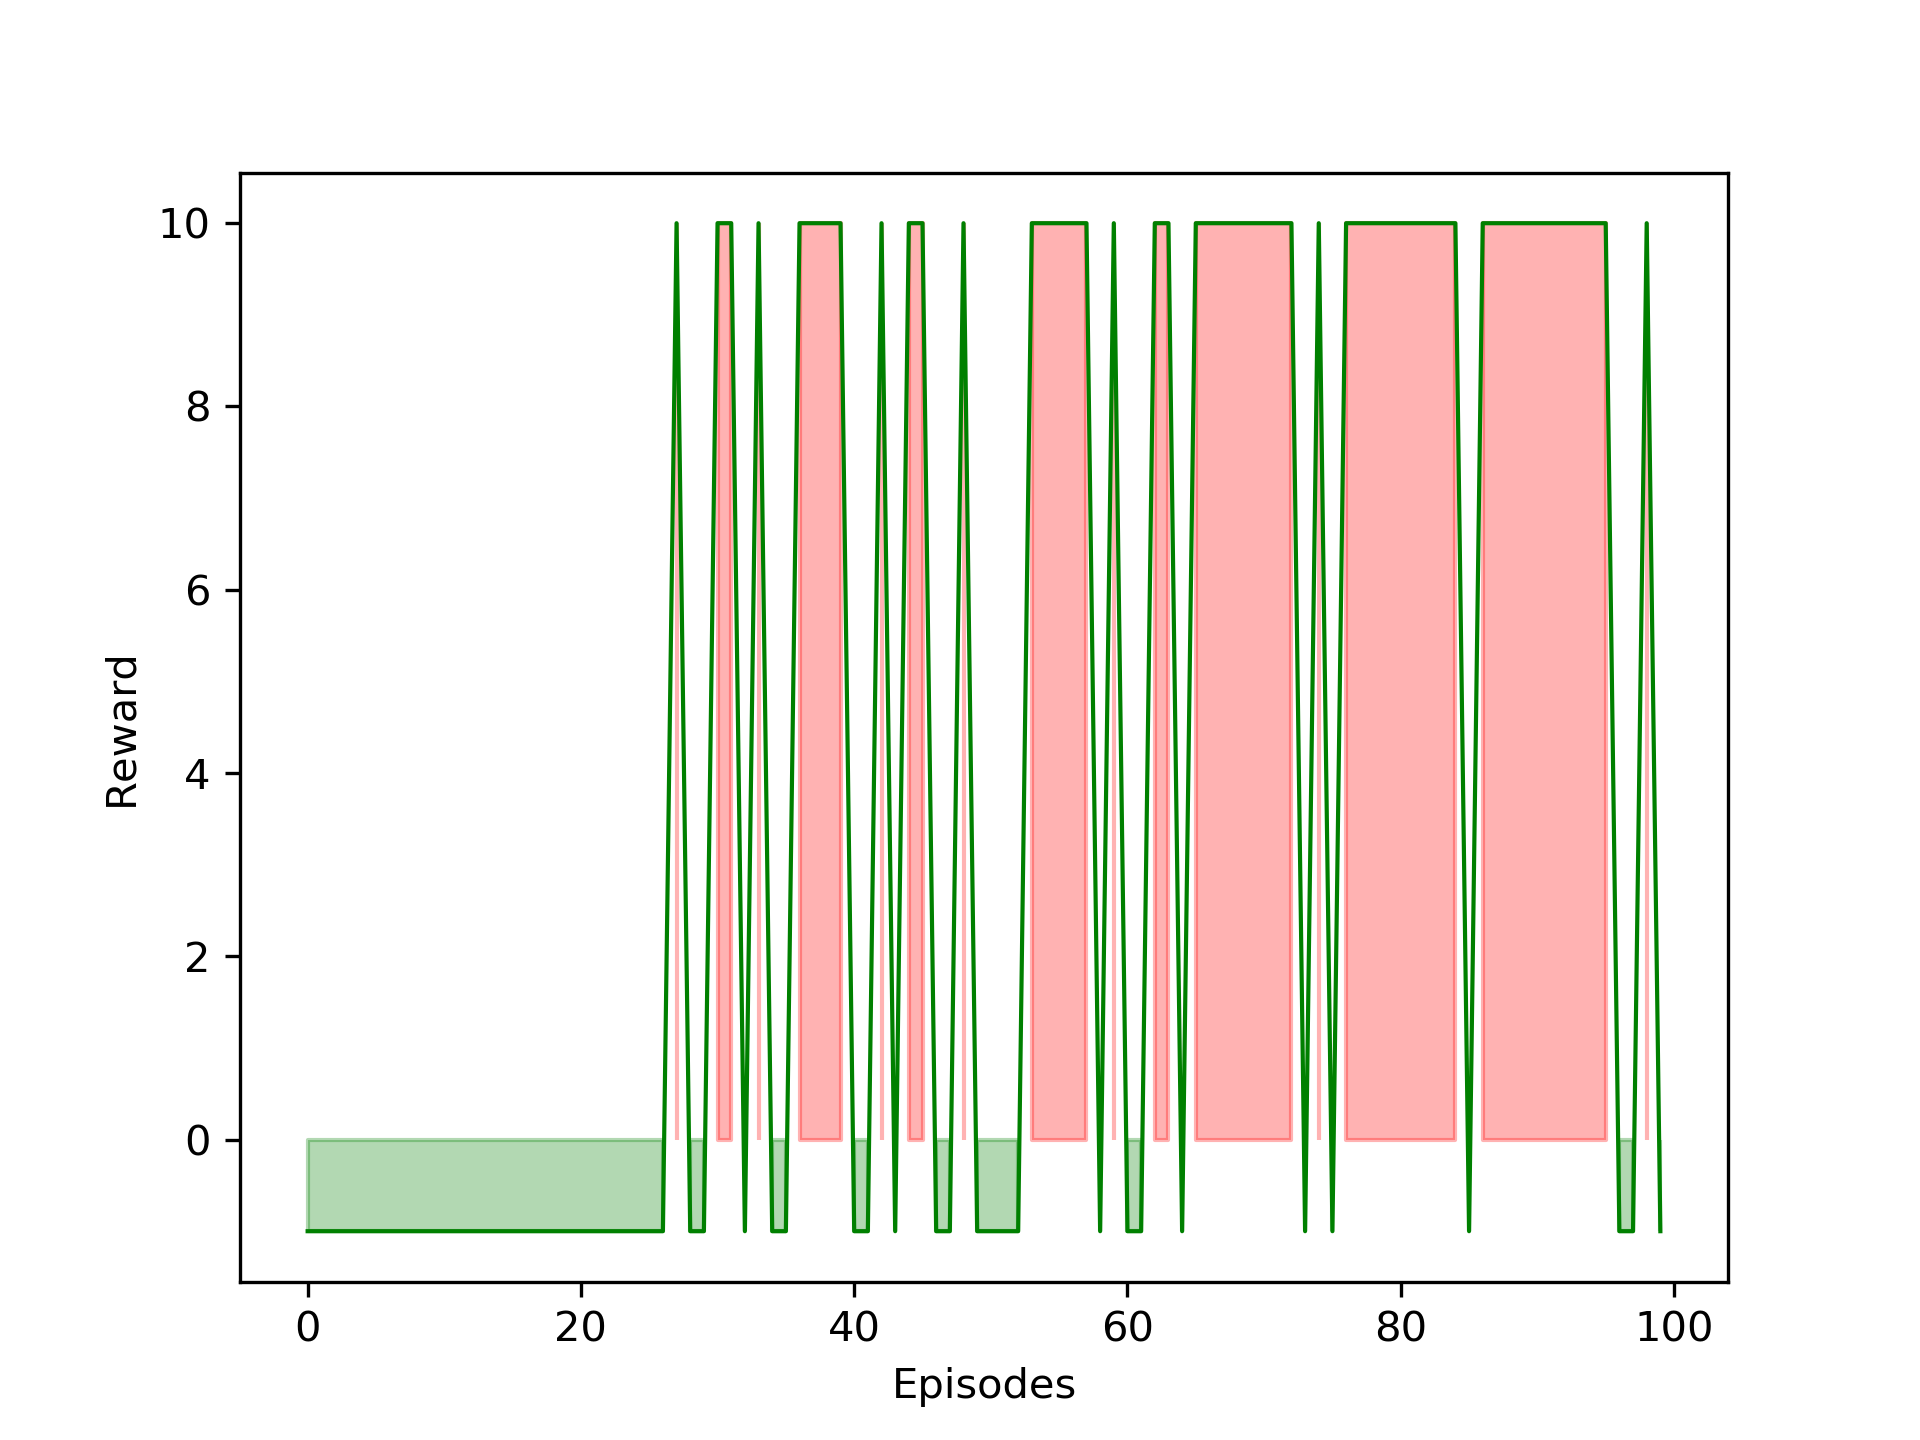
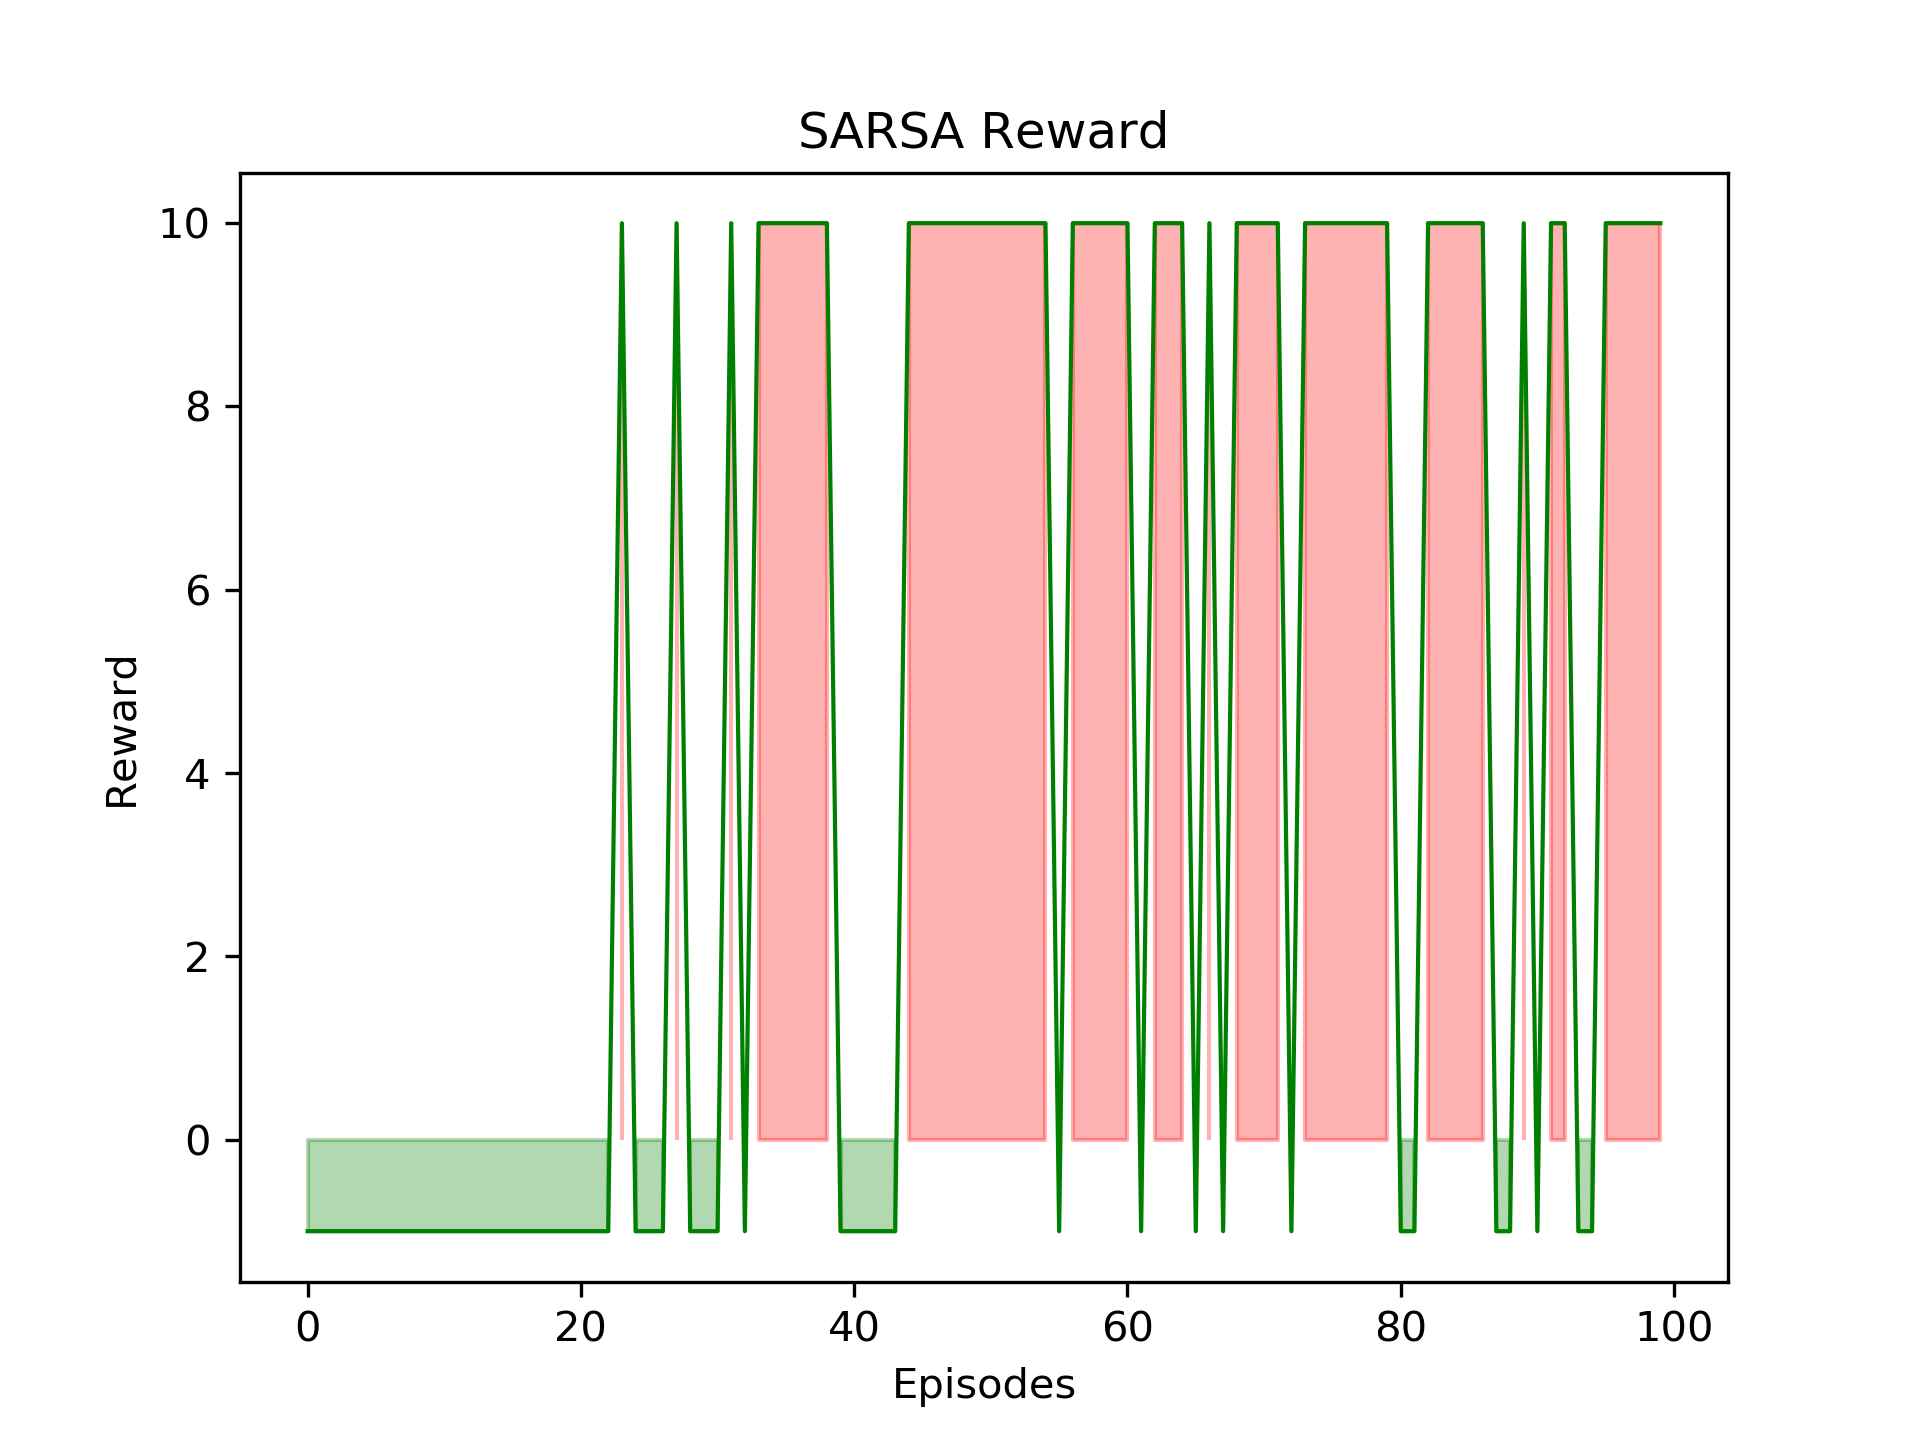
modify

Changed region(s): [[0.3125, 0.1562, 0.875, 0.875], [0.4062, 0.0625, 0.5938, 0.125]]

diff --git a/model_free_tabular_SARSA/SARSA_tabular.py b/model_free_tabular_SARSA/SARSA_tabular.py
@@ -81,7 +81,7 @@ def maze_simulation(max_episode, env, RL_algorithm):
         while True:
 
             # fresh env
-            # env.render()
+            env.render()
 
             # RL take action and get next state and reward
             state_, reward, done = env.step(action)
@@ -131,7 +131,8 @@ def main():
                     color='red', alpha=0.3)
     plt.xlabel('Episodes')
     plt.ylabel('Reward')
-    plt.savefig(f'MAZE_SARSA_reward.png', dpi = 300)
+    plt.title('SARSA Reward')
+    plt.savefig('MAZE_SARSA_reward.png', dpi = 300)
     plt.close()
 
 if __name__ == "__main__":
